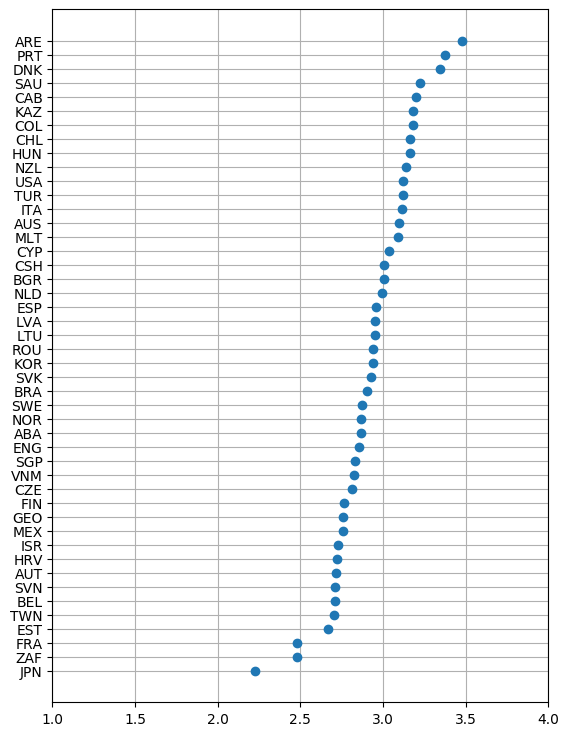
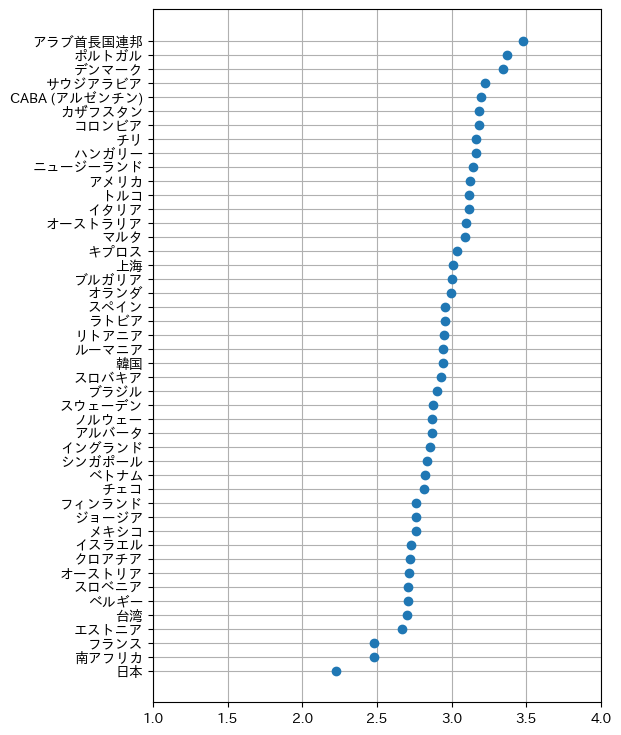
modified

diff --git a/python/talis2018.html b/python/talis2018.html
@@ -77,10 +77,31 @@ plt.xlim(1, 4)
 plt.plot(s, s.index, "o")
 plt.grid()
 plt.xlim(1, 4)
+</pre>
+
+<p>国名を日本語にするには，次のようにすればよい（りん先生の国名一覧を拝借した）：</p>
+
+<pre>
+co = pd.read_csv("http://www.edufolder.jp/files/talis2018/ISO3166.csv")
+dic = { r['Alpha3']: r['Name_ja'] for i,r in co.iterrows() }
+dic['ZAF'] = '南アフリカ'
+dic['CSH'] = '上海'
+dic['CYP'] = 'キプロス'
+dic['KAZ'] = 'カザフスタン'
+dic['CAB'] = 'CABA (アルゼンチン)'
+dic['SAU'] = 'サウジアラビア'
+cj = [ dic[x] for x in s.index ]
+
+plt.plot(s, cj, "o")
+plt.subplots_adjust(left=0.25, right=0.95)
+plt.grid()
+plt.xlim(1, 4)
 plt.savefig('190707a.png', bbox_inches="tight")
 </pre>
 
 <figure><img src="img/190707a.png" alt=""></figure>
+
+<p>要するに日本は「デジタル技術を使って生徒の学びをサポートする」（Support student learning through the use of digital technology）で最低点であるということだ。</p>
 
 <hr>
 
@@ -88,7 +109,7 @@ plt.savefig('190707a.png', bbox_inches="tight")
 
 <p>
 <!-- hhmts start -->
-Last modified: <time>2019-07-07 20:51:13</time>
+Last modified: <time>2019-07-07 22:15:39</time>
 <!-- hhmts end -->
 </p>
 </body>
